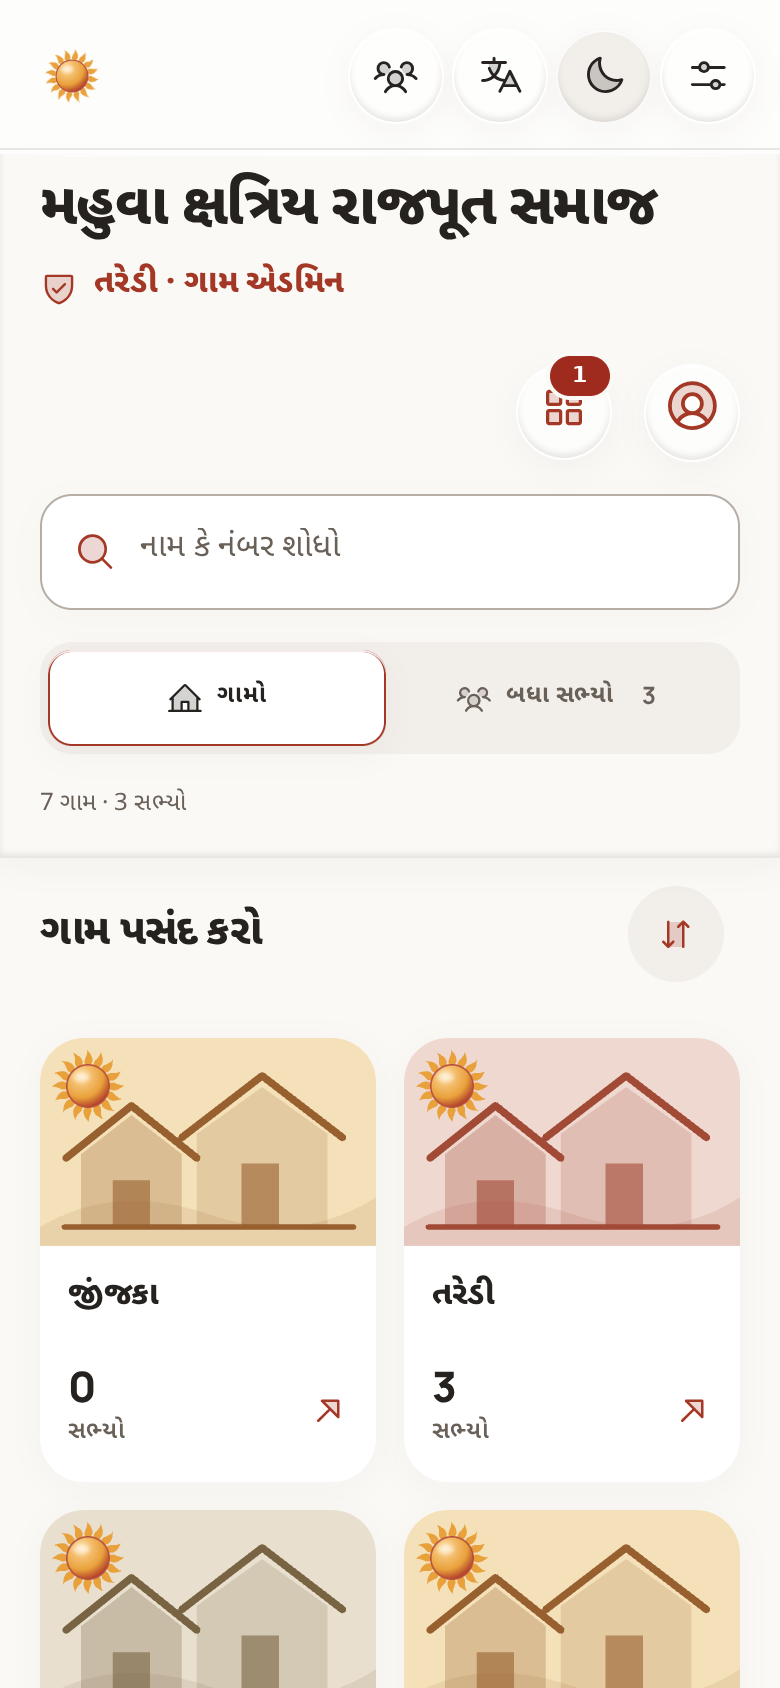
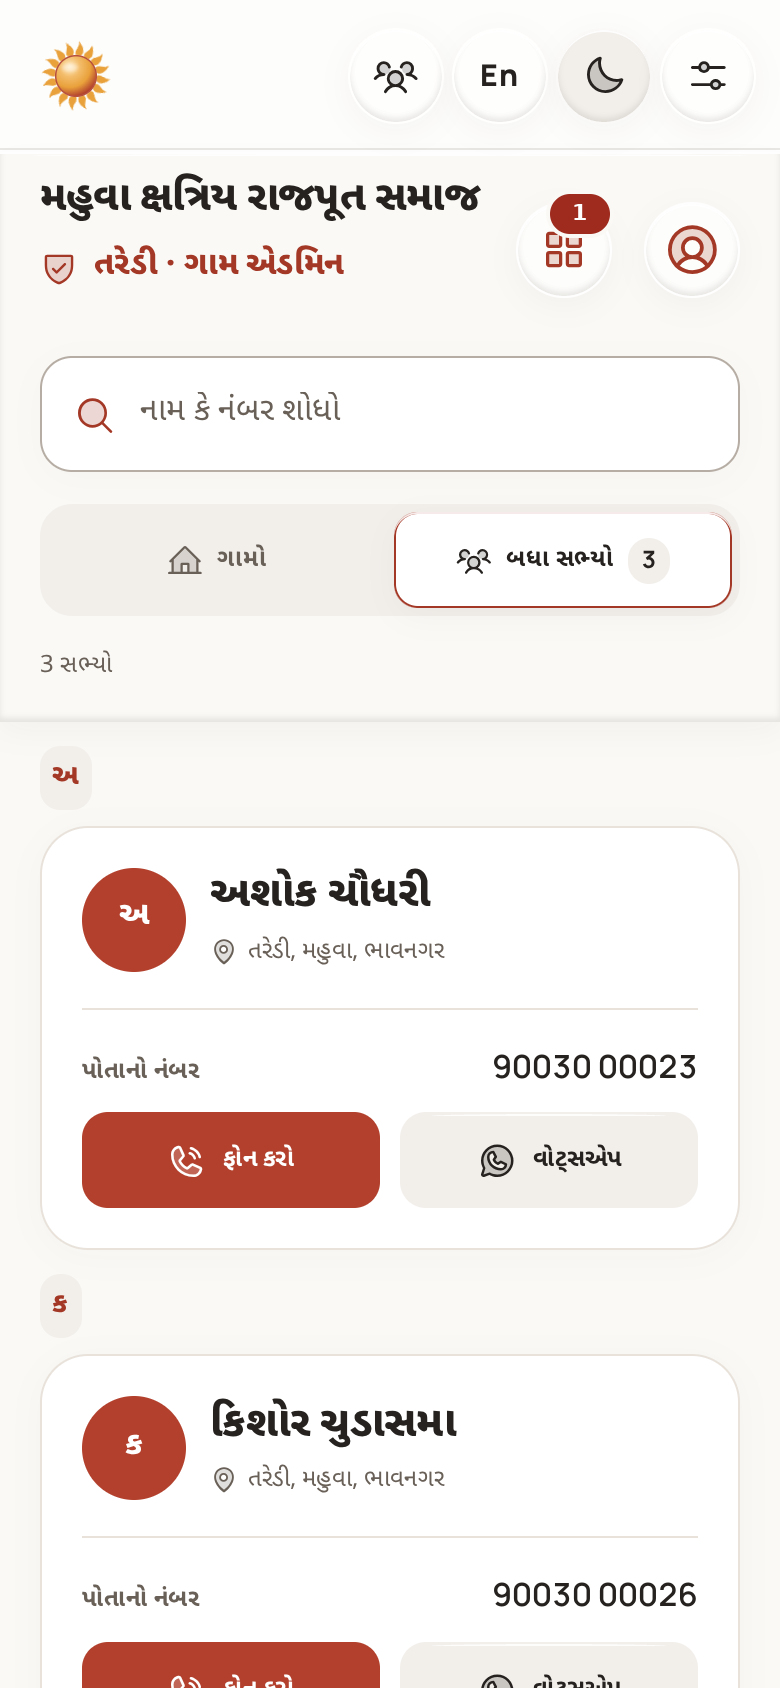
Ten UX fixes: single-language admin page, distinct main admin, locked region, centring, defaults
1. All-admins page honours the language selection completely: the main
   administrator's name, village names in role lines and unassigned rows, the
   location prefix and the member/village picker options all follow the
   selected script (no Gujarati in English mode, verified by script scan).
   The main-admin contact record gains an optional English name (nameEn).
2. The main administrator's row is visually distinct: accent-tinted glass,
   stronger border, star avatar and accent role text — same compact shape.
3. Tehsil (Mahuva) and district (Bhavnagar) are locked on the registration
   and edit forms: read-only, greyed, no suggestion buttons.
4. Fixed icon centring on the round triggers (My profile was 3.3px and
   Dashboard 2.2px off-centre): flex centring plus a pinned icon line box;
   all measured at 0px offset now.
5. Sheet "Back" buttons are embossed glass chips with border, tint, shadow
   and a leading arrow — no more text camouflage.
6. The language button shows the language it switches to: "En" in Gujarati
   mode, "ગુ" in English mode, replacing the generic translate icon.
7. Village-administrator testing path documented and verified: Account →
   Sign out unseals the sun-tap gate for the main administrator.
8. Community sun enlarged 36 → 46px in a 52px round button.
9. Members land on the all-members list by default (numbers visible
   immediately); village tiles remain one tap away via the Villages segment.
   Tests updated for the new default.
[…]

diff --git a/Community Directory.dc.html b/Community Directory.dc.html
@@ -236,21 +236,13 @@
 
                   <label style="display:flex;flex-direction:column;gap:7px">
                     <div class="bi" style="font-size:var(--f-sm);font-weight:700;color:var(--ink2)"><span class="gu">તાલુકો</span><span class="en">Tehsil</span></div>
-                    <input value="{{ form.tehsil }}" onInput="{{ setTehsil }}" placeholder="{{ ph.tehsil }}" style="width:100%;box-sizing:border-box;height:var(--tap);border-radius:16px;border:1px solid {{ bd.tehsil }};background:var(--field);color:var(--ink);padding:0 15px;font:inherit;font-size:var(--f-md)" style-focus="border-color:var(--ind);box-shadow:0 0 0 4px rgba(178,64,44,.14)">
-                    <sc-if value="{{ err.tehsil }}"><div style="font-size:var(--f-xs);color:var(--dan);display:flex;gap:6px;align-items:center"><i class="ph-duotone ph-warning-circle" style="font-size:14px"></i>{{ err.tehsil }}</div></sc-if>
-                    <sc-if value="{{ tSuggest }}">
-                      <button onClick="{{ applyTehsil }}" style="align-self:flex-start;border:1px solid var(--gbd);background:var(--chip);border-radius:14px;padding:9px 13px;font:inherit;font-size:var(--f-sm);color:var(--ink);cursor:pointer;display:flex;align-items:center;gap:8px;text-align:left" style-hover="border-color:var(--ind)">
-                        <i class="ph-duotone ph-magic-wand" style="font-size:17px;color:var(--aqua)"></i>
-                        <span>{{ tSuggest.msg }}</span>
-                      </button>
-                    </sc-if>
-                  </label>
+                    <input value="{{ form.tehsil }}" readonly aria-readonly="true" style="width:100%;box-sizing:border-box;height:var(--tap);border-radius:16px;border:1px solid var(--gbd);background:var(--g2);color:var(--ink2);padding:0 15px;font:inherit;font-size:var(--f-md);cursor:not-allowed">
+                                                          </label>
 
                   <label style="display:flex;flex-direction:column;gap:7px">
                     <div class="bi" style="font-size:var(--f-sm);font-weight:700;color:var(--ink2)"><span class="gu">જિલ્લો</span><span class="en">District</span></div>
-                    <input value="{{ form.district }}" onInput="{{ setDistrict }}" placeholder="{{ ph.district }}" style="width:100%;box-sizing:border-box;height:var(--tap);border-radius:16px;border:1px solid {{ bd.district }};background:var(--field);color:var(--ink);padding:0 15px;font:inherit;font-size:var(--f-md)" style-focus="border-color:var(--ind);box-shadow:0 0 0 4px rgba(178,64,44,.14)">
-                    <sc-if value="{{ err.district }}"><div style="font-size:var(--f-xs);color:var(--dan);display:flex;gap:6px;align-items:center"><i class="ph-duotone ph-warning-circle" style="font-size:14px"></i>{{ err.district }}</div></sc-if>
-                  </label>
+                    <input value="{{ form.district }}" readonly aria-readonly="true" style="width:100%;box-sizing:border-box;height:var(--tap);border-radius:16px;border:1px solid var(--gbd);background:var(--g2);color:var(--ink2);padding:0 15px;font:inherit;font-size:var(--f-md);cursor:not-allowed">
+                                      </label>
                 </div>
 
                 <button onClick="{{ sendRequest }}" style="position:relative;overflow:hidden;height:var(--tap);min-height:52px;width:100%;border:0;border-radius:20px;background:var(--grad);color:#fff;font:inherit;font-weight:700;font-size:var(--f-md);display:flex;align-items:center;justify-content:center;gap:10px;cursor:pointer;box-shadow:0 10px 26px rgba(178,64,44,.36)" style-active="transform:translateY(1px)">
@@ -584,11 +576,11 @@
                   <div style="display:flex;gap:12px">
                     <label style="flex:1;min-width:0;display:flex;flex-direction:column;gap:7px">
                       <div class="bi" style="font-size:var(--f-sm);font-weight:700;color:var(--ink2)"><span class="gu">તાલુકો</span><span class="en">Tehsil</span></div>
-                      <input value="{{ edit.tehsil }}" onInput="{{ setEditTehsil }}" style="width:100%;box-sizing:border-box;height:var(--tap);border-radius:16px;border:1px solid var(--fieldBd);background:var(--field);color:var(--ink);padding:0 12px;font:inherit;font-size:var(--f-md)" style-focus="border-color:var(--ind)">
+                      <input value="{{ edit.tehsil }}" readonly aria-readonly="true" style="width:100%;box-sizing:border-box;height:var(--tap);border-radius:16px;border:1px solid var(--gbd);background:var(--g2);color:var(--ink2);padding:0 12px;font:inherit;font-size:var(--f-md);cursor:not-allowed">
                     </label>
                     <label style="flex:1;min-width:0;display:flex;flex-direction:column;gap:7px">
                       <div class="bi" style="font-size:var(--f-sm);font-weight:700;color:var(--ink2)"><span class="gu">જિલ્લો</span><span class="en">District</span></div>
-                      <input value="{{ edit.district }}" onInput="{{ setEditDistrict }}" style="width:100%;box-sizing:border-box;height:var(--tap);border-radius:16px;border:1px solid var(--fieldBd);background:var(--field);color:var(--ink);padding:0 12px;font:inherit;font-size:var(--f-md)" style-focus="border-color:var(--ind)">
+                      <input value="{{ edit.district }}" readonly aria-readonly="true" style="width:100%;box-sizing:border-box;height:var(--tap);border-radius:16px;border:1px solid var(--gbd);background:var(--g2);color:var(--ink2);padding:0 12px;font:inherit;font-size:var(--f-md);cursor:not-allowed">
                     </label>
                   </div>
                 </div>
@@ -1095,7 +1087,7 @@ function bestMatch(input, pairs) {
 class Component extends DCLogic {
   state = {
     screen: 'signup', tab: 'home', lang: 'gu', theme: 'light', fsPct: 100,
-    query: '', fVillage: '', fTehsil: '', fDistrict: '', dirMode: 'tiles', tileOrder: null, dragFrom: null,
+    query: '', fVillage: '', fTehsil: '', fDistrict: '', dirMode: 'all', tileOrder: null, dragFrom: null,
     picker: null, confirm: null, dial: null, toast: null,
     editingRequest: false, showPhone2: false,
     form: { firstName: '', middleName: '', surname: '', name: '', phone: '', phone2: '', label2: 'work', village: '', tehsil: TEHSIL_GU, district: DISTRICT_GU },
@@ -1709,7 +1701,7 @@ class Component extends DCLogic {
         fg: s.screen === id ? '#FFF3E6' : '#D9C6BB'
       })),
       stateLine: s.members.length + ' members · ' + pendingTotal + ' admin items · ' + s.alerts.length + ' security alerts · text ' + s.fsPct + '%',
-      resetAll: () => this.setState({ ...clone(SEED), screen: 'signup', tab: 'home', query: '', fVillage: '', fTehsil: '', fDistrict: '', dirMode: 'tiles', tileOrder: null, dragFrom: null, myRequest: null, meId: 1, edit: null, submitted: false, showPhone2: false, form: { firstName: '', middleName: '', surname: '', name: '', phone: '', phone2: '', label2: 'work', village: '', tehsil: TEHSIL_GU, district: DISTRICT_GU }, login: { user: '', pass: '' }, loginError: false, dial: null, toast: null, confirm: null, picker: null, fsPct: 100, lang: 'gu', theme: 'light' })
+      resetAll: () => this.setState({ ...clone(SEED), screen: 'signup', tab: 'home', query: '', fVillage: '', fTehsil: '', fDistrict: '', dirMode: 'all', tileOrder: null, dragFrom: null, myRequest: null, meId: 1, edit: null, submitted: false, showPhone2: false, form: { firstName: '', middleName: '', surname: '', name: '', phone: '', phone2: '', label2: 'work', village: '', tehsil: TEHSIL_GU, district: DISTRICT_GU }, login: { user: '', pass: '' }, loginError: false, dial: null, toast: null, confirm: null, picker: null, fsPct: 100, lang: 'gu', theme: 'light' })
     };
   }
 }

diff --git a/web/modern-design.css b/web/modern-design.css
@@ -217,7 +217,11 @@ body {
   flex-wrap: wrap;
 }
 .directory-heading h1 {
-  font-size: calc(29px * var(--fs));
+  /* One line in both scripts at every phone width, so the heading block
+     keeps identical height in Gujarati and English. */
+  font-size: calc(clamp(17px, 5.25vw, 21px) * var(--fs));
+  line-height: 1.25;
+  letter-spacing: -0.2px;
 }
 .hero-village {
   display: flex;
@@ -236,6 +240,9 @@ body {
   width: 48px;
   height: 48px;
   margin-left: auto;
+  display: flex;
+  align-items: center;
+  justify-content: center;
   padding: 0;
   border: 0;
   border-radius: 50%;
@@ -263,12 +270,21 @@ body {
 .app .profile-trigger {
   flex: 0 0 48px;
   width: 48px;
+  display: flex;
+  align-items: center;
+  justify-content: center;
   border: 0;
   border-radius: 50%;
   color: var(--ind);
   background: var(--g2);
   font-size: 30px;
   padding: 0;
+}
+/* Icon glyphs sit on the text baseline; pin the line box so the mark is
+   optically centred in every round control. */
+.app .profile-trigger i,
+.app .dashboard-trigger i {
+  line-height: 1;
 }
 .app .directory-search {
   min-height: 56px;
@@ -1113,12 +1129,56 @@ body {
   border-color: var(--ind);
 }
 /* Unassigned villages stay readable; only the avatar looks muted. */
+/* Item: the main administrator is instantly recognisable — accent-tinted
+   glass, stronger border, star avatar; same compact shape as the rest. */
+.app .admin-row.main-admin {
+  background: linear-gradient(
+    135deg,
+    rgba(178, 64, 44, 0.1),
+    rgba(233, 161, 59, 0.08)
+  );
+  border: 1px solid rgba(178, 64, 44, 0.38);
+  box-shadow:
+    var(--raised-shadow),
+    inset 0 1px 0 var(--rim);
+}
+.app .admin-row.main-admin .admin-role {
+  color: var(--ind);
+  font-weight: 700;
+}
+.app .admin-row.main-admin .admin-avatar {
+  background: var(--grad);
+  box-shadow: 0 4px 12px rgba(178, 64, 44, 0.35);
+}
 .app .admin-row-empty .admin-avatar {
   background: var(--g);
   color: var(--ink2);
   border: 1px dashed var(--gbd);
 }
 
+/* Language button: shows the language a press will switch to ("En" in
+   Gujarati, "ગુ" in English) instead of a generic icon. */
+.app .language-trigger .lang-target {
+  font-weight: 800;
+  font-size: 15px;
+  letter-spacing: 0.02em;
+}
+.app[data-lang="gu"] .language-trigger .lang-target {
+  font-family: Manrope, sans-serif;
+}
+.app[data-lang="en"] .language-trigger .lang-target {
+  font-family: "Noto Sans Gujarati", sans-serif;
+  font-size: 16px;
+}
+/* Community sun: a little larger, still inside its 52px round button. */
+.app .main-header .brand-sun {
+  width: 52px;
+  height: 52px;
+}
+.app .brand-sun .brand-logo {
+  width: 46px;
+  height: 46px;
+}
 /* ------------------------------------------------------------------ */
 /* Liquid Glass controls and sheets created by the UI adapters (header
    triggers, floating buttons, React sheets). The build-time data-glass

diff --git a/web/controller.js b/web/controller.js
@@ -195,8 +195,8 @@ class Component extends DesignComponent {
       this.setState({ screen: "pending", editingRequest: false });
       return true;
     }
-    if (s.screen === "directory" && (s.query || s.dirMode !== "tiles")) {
-      this.setState({ query: "", dirMode: "tiles" });
+    if (s.screen === "directory" && (s.query || s.dirMode !== "all")) {
+      this.setState({ query: "", dirMode: "all" });
       return true;
     }
     return false;
@@ -1141,6 +1141,8 @@ class Component extends DesignComponent {
     v.aes = false;
     v.aesAttr = "off";
     v.languageSwitch = this.P("English", "ગુજરાતી");
+    // The header button shows the language it will switch TO.
+    v.languageSwitchShort = this.P("En", "ગુ");
     v.themeLabel = this.P(
       s.theme === "dark" ? "આછો દેખાવ" : "ઘેરો દેખાવ",
       s.theme === "dark" ? "Light" : "Dark",

diff --git a/web/village-workflow.css b/web/village-workflow.css
@@ -90,6 +90,33 @@
   gap: 12px;
   margin-bottom: 20px;
 }
+/* Sheet "Back" controls are real buttons, never camouflage: glass chip with
+   a border, tint, shadow and a leading arrow. */
+.workflow-heading > button {
+  display: inline-flex;
+  align-items: center;
+  gap: 8px;
+  min-height: 48px;
+  padding: 0 18px;
+  border: 1px solid var(--glass-border);
+  border-radius: 15px;
+  background: var(--glass-tint);
+  box-shadow:
+    var(--raised-shadow),
+    inset 0 1px 0 var(--rim);
+  color: var(--ind);
+  font: inherit;
+  font-weight: 700;
+  cursor: pointer;
+}
+.workflow-heading > button::before {
+  content: "\2190";
+  font-size: 18px;
+  line-height: 1;
+}
+.workflow-heading > button:hover {
+  border-color: var(--ind);
+}
 .workflow-tabs,
 .workflow-actions {
   display: flex;

diff --git a/docs/DEMO_LOGINS.md b/docs/DEMO_LOGINS.md
@@ -13,6 +13,10 @@ any screen, then:
 The sun-tap entrance is sealed while a village-administrator session is signed
 in, and village administrators never receive the gate code or main password.
 
+**Testing both roles on one device:** sign in as a village administrator, open
+**Dashboard → Account → "Sign out village administrator"**, and the hidden
+sun-tap entrance works again immediately for the main administrator.
+
 ## Village administrators (separate sign-in)
 
 Use the header **shield button ("ગામ એડમિન સાઇન ઇન / Village admin sign in"**,
